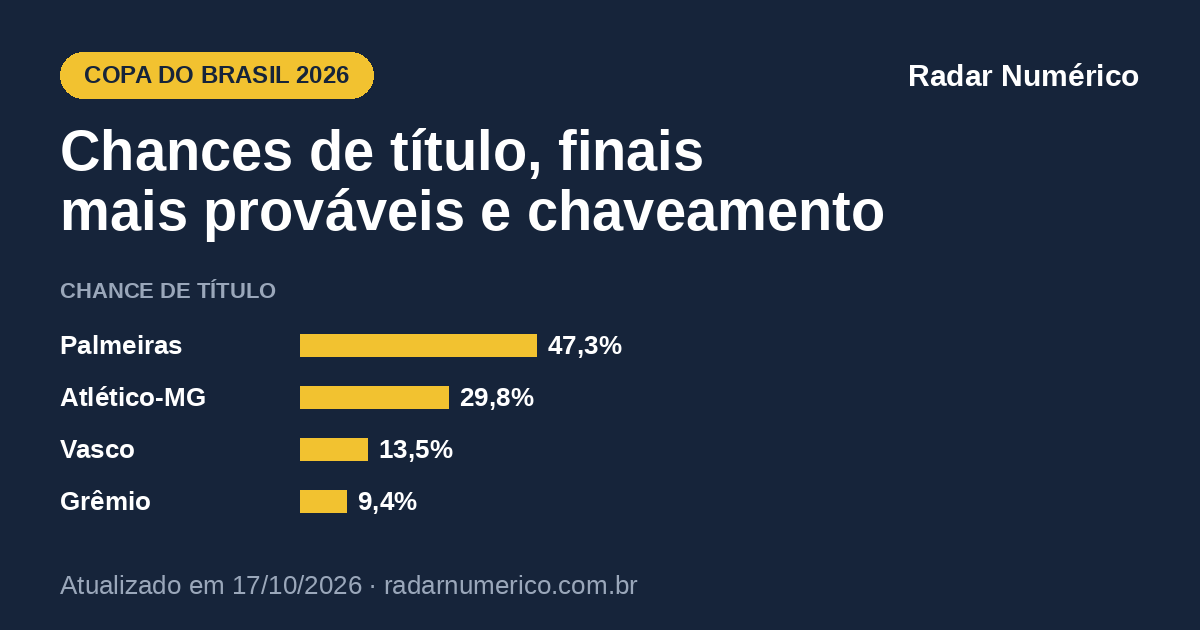
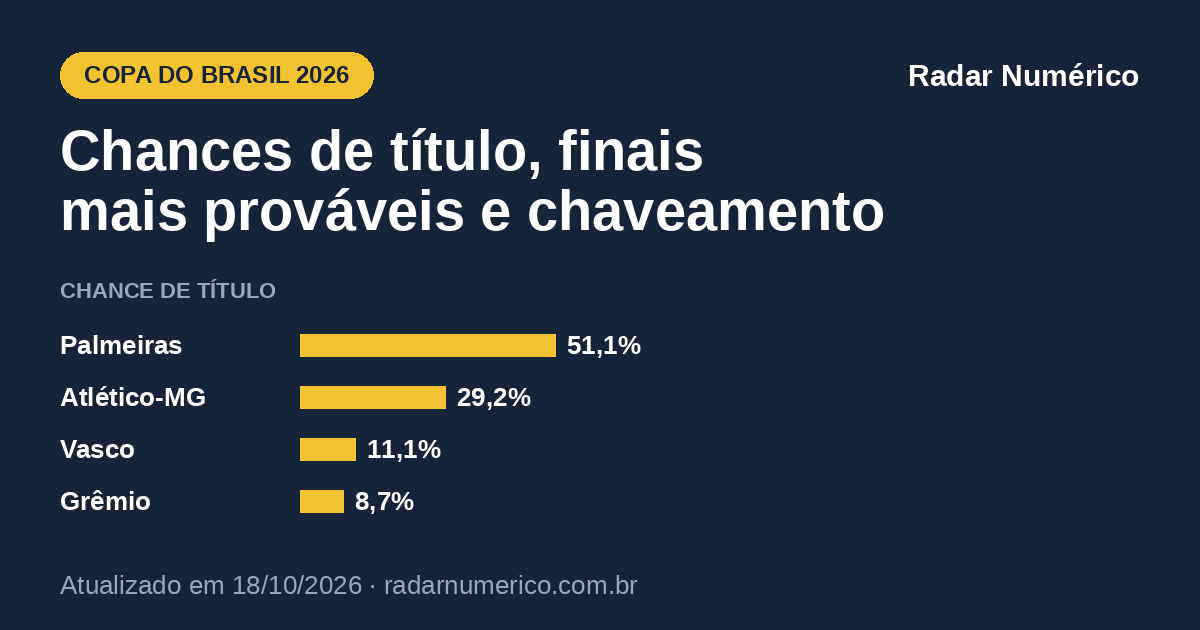
Copa do Brasil: pagina regerada com a forca atual (18/10 07h43)

diff --git a/futebol/copa-do-brasil/index.html b/futebol/copa-do-brasil/index.html
@@ -12,11 +12,11 @@
 <meta property="og:title" content="Copa do Brasil 2026: chances de título e chaveamento">
 <meta property="og:description" content="Probabilidades da Copa do Brasil 2026 por simulação: chance de título, de chegar à final, finais mais prováveis e chaveamento com as chances de cada time.">
 <meta property="og:url" content="https://radarnumerico.com.br/futebol/copa-do-brasil/">
-<meta property="og:image" content="https://radarnumerico.com.br/futebol/copa-do-brasil/og.png?v=202610171547">
+<meta property="og:image" content="https://radarnumerico.com.br/futebol/copa-do-brasil/og.png?v=202610180743">
 <meta property="og:image:width" content="1200">
 <meta property="og:image:height" content="630">
 <meta name="twitter:card" content="summary_large_image">
-<script type="application/ld+json">{"@context": "https://schema.org", "@graph": [{"@type": "WebPage", "@id": "https://radarnumerico.com.br/futebol/copa-do-brasil/", "url": "https://radarnumerico.com.br/futebol/copa-do-brasil/", "name": "Copa do Brasil 2026: chances de título e chaveamento", "description": "Probabilidades da Copa do Brasil 2026 por simulação: chance de título, de chegar à final, finais mais prováveis e chaveamento com as chances de cada time.", "inLanguage": "pt-BR", "dateModified": "2026-10-17T15:47", "isPartOf": {"@type": "WebSite", "name": "Radar Numérico", "url": "https://radarnumerico.com.br/"}, "about": {"@type": "SportsEvent", "name": "Copa do Brasil 2026", "sport": "Futebol"}}, {"@type": "BreadcrumbList", "itemListElement": [{"@type": "ListItem", "position": 1, "name": "Radar Numérico", "item": "https://radarnumerico.com.br/"}, {"@type": "ListItem", "position": 2, "name": "Copa do Brasil 2026: probabilidades", "item": "https://radarnumerico.com.br/futebol/copa-do-brasil/"}]}]}</script>
+<script type="application/ld+json">{"@context": "https://schema.org", "@graph": [{"@type": "WebPage", "@id": "https://radarnumerico.com.br/futebol/copa-do-brasil/", "url": "https://radarnumerico.com.br/futebol/copa-do-brasil/", "name": "Copa do Brasil 2026: chances de título e chaveamento", "description": "Probabilidades da Copa do Brasil 2026 por simulação: chance de título, de chegar à final, finais mais prováveis e chaveamento com as chances de cada time.", "inLanguage": "pt-BR", "dateModified": "2026-10-18T07:43", "isPartOf": {"@type": "WebSite", "name": "Radar Numérico", "url": "https://radarnumerico.com.br/"}, "about": {"@type": "SportsEvent", "name": "Copa do Brasil 2026", "sport": "Futebol"}}, {"@type": "BreadcrumbList", "itemListElement": [{"@type": "ListItem", "position": 1, "name": "Radar Numérico", "item": "https://radarnumerico.com.br/"}, {"@type": "ListItem", "position": 2, "name": "Copa do Brasil 2026: probabilidades", "item": "https://radarnumerico.com.br/futebol/copa-do-brasil/"}]}]}</script>
 <link rel="icon" type="image/png" href="/favicon.png">
 <link rel="preconnect" href="https://fonts.googleapis.com">
 <link rel="preconnect" href="https://fonts.gstatic.com" crossorigin>
@@ -161,8 +161,8 @@ footer.site a{color:var(--ink2)}
 <header class="pg">
   <div class="kicker">Futebol · Copa do Brasil</div>
   <h1>Copa do Brasil 2026: chances de título e chaveamento</h1>
-  <div class="selo" id="selo">Atualizado em <b>17/10/2026 às 15h47</b> · <b>Semifinais</b></div>
-  <p class="lede">O <b>Palmeiras</b> tem <b>47,3%</b> de chance de ser campeão da Copa do Brasil 2026; o <b>Atlético-MG</b>, <b>29,8%</b>. A final mais provável é <b>Palmeiras × Atlético-MG</b> (50,1% dos cenários) — nela, o Palmeiras venceria 61,4% das vezes.</p>
+  <div class="selo" id="selo">Atualizado em <b>18/10/2026 às 07h43</b> · <b>Semifinais</b></div>
+  <p class="lede">O <b>Palmeiras</b> tem <b>51,1%</b> de chance de ser campeão da Copa do Brasil 2026; o <b>Atlético-MG</b>, <b>29,2%</b>. A final mais provável é <b>Palmeiras × Atlético-MG</b> (53,5% dos cenários) — nela, o Palmeiras venceria 62,9% das vezes.</p>
   <div class="outras"><a href="/futebol/libertadores/">Libertadores 2026</a> <a href="/futebol/sul-americana/">Sul-Americana 2026</a> <a href="/futebol/brasileirao/">Brasileirão 2026</a></div>
 </header>
 
@@ -200,7 +200,7 @@ footer.site a{color:var(--ink2)}
 
 <div class="metod">
   <p class="marca">Radar Numérico</p>
-  <p id="rodape">Probabilidades da Copa do Brasil 2026 atualizadas em 17/10/2026 às 15h47, antes das semifinais. Atualizamos depois de cada jogo.</p>
+  <p id="rodape">Probabilidades da Copa do Brasil 2026 atualizadas em 18/10/2026 às 07h43, antes das semifinais. Atualizamos depois de cada jogo.</p>
   <p>Algoritmo desenvolvido pelo economista Augusto Pellegrini. As probabilidades vêm de 100 mil simulações do mata-mata, com a força de cada time calibrada nas odds do mercado e nos resultados da temporada — a mesma matriz de força usada no <a href="/futebol/brasileirao/">Brasileirão</a>.</p>
 </div>
 </main>
@@ -208,7 +208,7 @@ footer.site a{color:var(--ink2)}
 <div id="toast" role="status" aria-live="polite"></div>
 
 <script>
-const D = {"gerado_em":"2026-10-17T15:47","n_sim":100000,"torneios":{"copa_do_brasil":{"nome":"Copa do Brasil 2026","fase":"Semifinais","regras":"Semifinais em ida e volta, sem gol fora e sem prorrogação: empate no agregado vai direto aos pênaltis. Final em jogo único (inédito), em campo neutro; empate no tempo normal vai direto aos pênaltis (sem prorrogação).","final":{"data":"2026-12-06","hora":"","local":"Mané Garrincha, Brasília","neutro":true,"prorrogacao":false},"fontes":["https://www.cnnbrasil.com.br/esportes/futebol/copa-do-brasil/copa-do-brasil-cbf-define-datas-das-semifinais-de-2026/","https://ohoje.com/2026/09/09/final-da-copa-do-brasil-2026-sera-disputada-em-brasilia/"],"times":["Palmeiras","Vasco","Grêmio","Atlético-MG"],"resumo":{"Palmeiras":{"forca":25.8121,"propensao":1.012,"p_final":0.7251,"p_titulo":0.473,"p_titulo_dado_final":0.6523},"Vasco":{"forca":15.2719,"propensao":0.9949,"p_final":0.2749,"p_titulo":0.1353,"p_titulo_dado_final":0.4924},"Grêmio":{"forca":9.8411,"propensao":1.0122,"p_final":0.3102,"p_titulo":0.0937,"p_titulo_dado_final":0.302},"Atlético-MG":{"forca":18.5258,"propensao":0.9751,"p_final":0.6898,"p_titulo":0.298,"p_titulo_dado_final":0.432}},"confrontos":[{"times":["Palmeiras","Vasco"],"jogos":[{"perna":1,"mandante":"Palmeiras","visitante":"Vasco","realizado":false,"lam_h":1.8616,"lam_a":0.6917,"eg_m":1.8575,"eg_v":0.6901,"vm":0.6392,"e":0.2424,"vv":0.1184,"etot":2.5533,"placar_mais_provavel":"2-0","p_placar":0.1343,"data":"2026-11-01","hora":"16:00","local":"Nubank Parque, São Paulo"},{"perna":2,"mandante":"Vasco","visitante":"Palmeiras","realizado":false,"lam_h":1.1801,"lam_a":1.3732,"eg_m":1.175,"eg_v":1.3674,"vm":0.3025,"e":0.3041,"vv":0.3935,"etot":2.5533,"placar_mais_provavel":"1-1","p_placar":0.1453,"data":"2026-11-08","hora":"17:00","local":"São Januário, Rio de Janeiro"}],"p_avanca":{"Palmeiras":0.7251,"Vasco":0.2749},"p_penaltis":0.1594,"p_avanca_no_tempo_normal":{"Palmeiras":0.6451,"Vasco":0.1955}},{"times":["Grêmio","Atlético-MG"],"jogos":[{"perna":1,"mandante":"Grêmio","visitante":"Atlético-MG","realizado":false,"lam_h":1.2182,"lam_a":1.2848,"eg_m":1.2145,"eg_v":1.2809,"vm":0.3313,"e":0.3057,"vv":0.363,"etot":2.5031,"placar_mais_provavel":"1-1","p_placar":0.1459,"data":"2026-11-01","hora":"18:30","local":"Arena do Grêmio, Porto Alegre"},{"perna":2,"mandante":"Atlético-MG","visitante":"Grêmio","realizado":false,"lam_h":1.7778,"lam_a":0.7253,"eg_m":1.7753,"eg_v":0.7242,"vm":0.6123,"e":0.253,"vv":0.1346,"etot":2.5031,"placar_mais_provavel":"1-0","p_placar":0.1336,"data":"2026-11-07","hora":"18:00","local":"Arena MRV, Belo Horizonte"}],"p_avanca":{"Grêmio":0.3102,"Atlético-MG":0.6898},"p_penaltis":0.1704,"p_avanca_no_tempo_normal":{"Grêmio":0.2269,"Atlético-MG":0.6027}}],"finais":[{"times":["Palmeiras","Grêmio"],"p_par":0.2238,"vm":0.6063,"e":0.2553,"vv":0.1384,"etot":2.5978,"placar_mais_provavel":"1-0","p_placar":0.1232,"p_titulo_lado1":0.738,"p_prorrogacao":0.2527,"p_penaltis":0.2527},{"times":["Palmeiras","Atlético-MG"],"p_par":0.5013,"vm":0.4675,"e":0.2942,"vv":0.2383,"etot":2.5025,"placar_mais_provavel":"1-1","p_placar":0.1402,"p_titulo_lado1":0.614,"p_prorrogacao":0.2932,"p_penaltis":0.2932},{"times":["Vasco","Grêmio"],"p_par":0.0864,"vm":0.4365,"e":0.2993,"vv":0.2642,"etot":2.5539,"placar_mais_provavel":"1-1","p_placar":0.143,"p_titulo_lado1":0.5944,"p_prorrogacao":0.302,"p_penaltis":0.302},{"times":["Vasco","Atlético-MG"],"p_par":0.1884,"vm":0.2962,"e":0.3035,"vv":0.4003,"etot":2.4601,"placar_mais_provavel":"1-1","p_placar":0.1446,"p_titulo_lado1":0.4456,"p_prorrogacao":0.3034,"p_penaltis":0.3034}],"n_sim":100000,"seed":20261017}}};
+const D = {"gerado_em":"2026-10-18T07:43","n_sim":100000,"torneios":{"copa_do_brasil":{"nome":"Copa do Brasil 2026","fase":"Semifinais","regras":"Semifinais em ida e volta, sem gol fora e sem prorrogação: empate no agregado vai direto aos pênaltis. Final em jogo único (inédito), em campo neutro; empate no tempo normal vai direto aos pênaltis (sem prorrogação).","final":{"data":"2026-12-06","hora":"","local":"Mané Garrincha, Brasília","neutro":true,"prorrogacao":false},"fontes":["https://www.cnnbrasil.com.br/esportes/futebol/copa-do-brasil/copa-do-brasil-cbf-define-datas-das-semifinais-de-2026/","https://ohoje.com/2026/09/09/final-da-copa-do-brasil-2026-sera-disputada-em-brasilia/"],"times":["Palmeiras","Vasco","Grêmio","Atlético-MG"],"resumo":{"Palmeiras":{"forca":27.1181,"propensao":1.012,"p_final":0.7651,"p_titulo":0.5108,"p_titulo_dado_final":0.6677},"Vasco":{"forca":14.4636,"propensao":0.9949,"p_final":0.2349,"p_titulo":0.1108,"p_titulo_dado_final":0.4715},"Grêmio":{"forca":9.9064,"propensao":1.0122,"p_final":0.3019,"p_titulo":0.0867,"p_titulo_dado_final":0.2873},"Atlético-MG":{"forca":18.9708,"propensao":0.9751,"p_final":0.6981,"p_titulo":0.2917,"p_titulo_dado_final":0.4178}},"confrontos":[{"times":["Palmeiras","Vasco"],"jogos":[{"perna":1,"mandante":"Palmeiras","visitante":"Vasco","realizado":false,"lam_h":1.925,"lam_a":0.6283,"eg_m":1.9241,"eg_v":0.628,"vm":0.672,"e":0.2261,"vv":0.1019,"etot":2.5533,"placar_mais_provavel":"2-0","p_placar":0.1441,"data":"2026-11-01","hora":"16:00","local":"Nubank Parque, São Paulo"},{"perna":2,"mandante":"Vasco","visitante":"Palmeiras","realizado":false,"lam_h":1.1093,"lam_a":1.4439,"eg_m":1.1064,"eg_v":1.4402,"vm":0.2732,"e":0.2963,"vv":0.4304,"etot":2.5533,"placar_mais_provavel":"1-1","p_placar":0.1416,"data":"2026-11-08","hora":"17:00","local":"São Januário, Rio de Janeiro"}],"p_avanca":{"Palmeiras":0.7651,"Vasco":0.2349},"p_penaltis":0.1473,"p_avanca_no_tempo_normal":{"Palmeiras":0.6912,"Vasco":0.1615}},{"times":["Grêmio","Atlético-MG"],"jogos":[{"perna":1,"mandante":"Grêmio","visitante":"Atlético-MG","realizado":false,"lam_h":1.2067,"lam_a":1.2964,"eg_m":1.2049,"eg_v":1.2945,"vm":0.328,"e":0.3013,"vv":0.3707,"etot":2.5031,"placar_mais_provavel":"1-1","p_placar":0.1438,"data":"2026-11-01","hora":"18:30","local":"Arena do Grêmio, Porto Alegre"},{"perna":2,"mandante":"Atlético-MG","visitante":"Grêmio","realizado":false,"lam_h":1.7928,"lam_a":0.7103,"eg_m":1.7928,"eg_v":0.7103,"vm":0.6216,"e":0.247,"vv":0.1314,"etot":2.5031,"placar_mais_provavel":"1-0","p_placar":0.1353,"data":"2026-11-07","hora":"18:00","local":"Arena MRV, Belo Horizonte"}],"p_avanca":{"Grêmio":0.3019,"Atlético-MG":0.6981},"p_penaltis":0.1674,"p_avanca_no_tempo_normal":{"Grêmio":0.2198,"Atlético-MG":0.6127}}],"finais":[{"times":["Palmeiras","Grêmio"],"p_par":0.2301,"vm":0.6276,"e":0.2447,"vv":0.1278,"etot":2.5978,"placar_mais_provavel":"2-0","p_placar":0.1284,"p_titulo_lado1":0.7568,"p_prorrogacao":0.2406,"p_penaltis":0.2406},{"times":["Palmeiras","Atlético-MG"],"p_par":0.535,"vm":0.4846,"e":0.2873,"vv":0.2281,"etot":2.5025,"placar_mais_provavel":"1-1","p_placar":0.1368,"p_titulo_lado1":0.6293,"p_prorrogacao":0.286,"p_penaltis":0.286},{"times":["Vasco","Grêmio"],"p_par":0.0718,"vm":0.4244,"e":0.2971,"vv":0.2785,"etot":2.5539,"placar_mais_provavel":"1-1","p_placar":0.1419,"p_titulo_lado1":0.5712,"p_prorrogacao":0.2992,"p_penaltis":0.2992},{"times":["Vasco","Atlético-MG"],"p_par":0.1631,"vm":0.2792,"e":0.2972,"vv":0.4236,"etot":2.4601,"placar_mais_provavel":"1-1","p_placar":0.1415,"p_titulo_lado1":0.4276,"p_prorrogacao":0.2962,"p_penaltis":0.2962}],"n_sim":100000,"seed":20261017}}};
 const K = 'copa_do_brasil', CURTO = 'Copa do Brasil 2026', SITE_URL = 'https://radarnumerico.com.br/futebol/copa-do-brasil/';
 const $ = s => document.querySelector(s);
 const pct = (p, c = 1) => { const v = p * 100; if (v >= 99.95) return '100%'; if (v > 0 && v < 0.05) return '<0,1%'; return v.toFixed(c).replace('.', ',') + '%'; };
